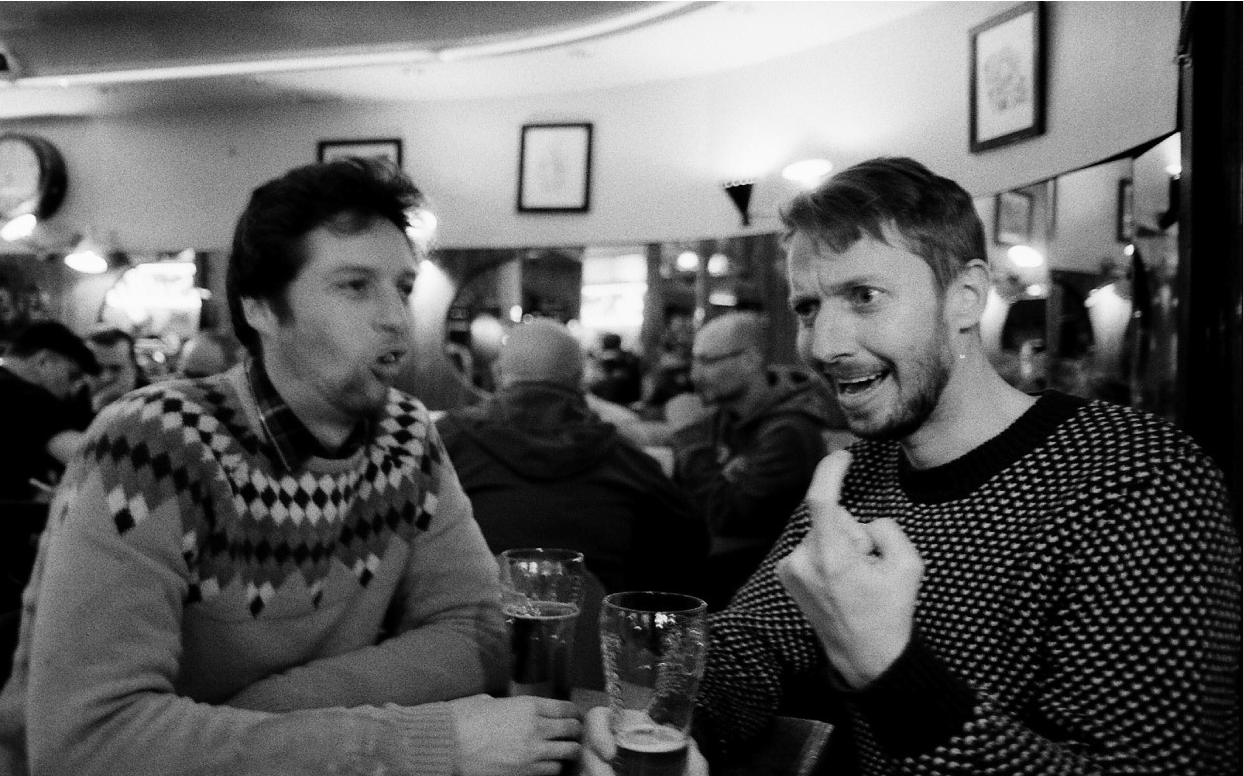
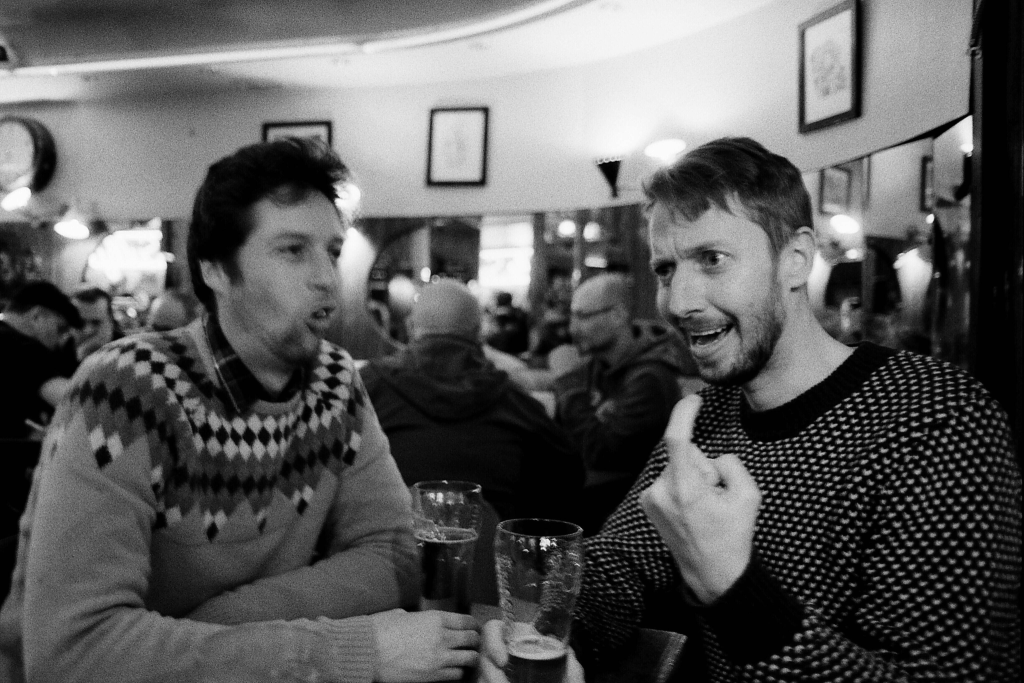
+ Added coming soon sections Merch and Photos + Added picture changing to linkies u Changed pictures as requested - Took away 'stay tuned...' message

diff --git a/index.html b/index.html
@@ -18,6 +18,12 @@
             <a href='episodes.html'>
                 <span class='nav-menu-text'>Episodes</span>
             </a>
+            <a href='#'>
+                <span class='nav-menu-text coming-soon'>Merch</span>
+            </a>
+            <a href='#'>
+                <span class='nav-menu-text coming-soon'>Photos</span>
+            </a>
         </div>
         <div class="nav-col nav-col-mid">
             <div class='main-logo-text'>Rich Chocolat<span class='crossed-out'><img src='images/red_thingy_transparent.png'></img>e</span>y Goodness</div>
@@ -51,19 +57,26 @@
     </div>
     <div class='main'>
         <div class="marquee">
-            
             <div class="main-pic">
-                
-                <img id='main-img' onmouseover="changeImg(this)"" onmouseout="returnImg(this)" src="images/rcg_pic.jpg" alt="RCG Main Photo" >
-                <img id='main-img' onmouseover="changeImg(this)"" onmouseout="returnImg(this)" src="images/rcg_hover.png" alt="RCG Main Photo" hidden>
-                <img id='main-img' onmouseover="changeImg(this)"" onmouseout="returnImg(this)" src="images/rcg_hover_alt.jpg" alt="RCG Main Photo" hidden>
+                <img id='main-img' onmouseover="changeImg(this)"" onmouseout="returnImg(this)" src="images/rcg_pic.png" alt="RCG Main Photo" >
+                <!-- <img id='main-img' onmouseover="changeImg(this)"" onmouseout="returnImg(this)" src="images/rcg_hover.png" alt="RCG Main Photo" hidden>
+                <img id='main-img' onmouseover="changeImg(this)"" onmouseout="returnImg(this)" src="images/rcg_hover_alt.jpg" alt="RCG Main Photo" hidden> -->
             </div>
         </div>
-        <p class='main-paragraph'>In 2014 <span class='linky'>I</span> was living in Los Angeles.  I had just dropped out of a <span class='linky'>Ph.D.</span> program and was on my way to <span class='linky'>South Korea</span> to work as an English <span class='linky'>teacher</span>. Then, I met a <span class='linky'>French</span> teacher. We fell in <span class='linky'>love</span>, I dropped everything, and six months later I followed her to <span class='linky'>Paris</span> with nothing but <span class='linky'>two</span> suitcases.</p>
-        <p class='main-paragraph'>As exciting as this <span class='linky'>new</span> life was, looking for work and struggling with everyday life in a <span class='linky'>language</span> I didn't speak started to chip away at my <span class='linky'>confidence</span>. I could see that people back home had been <span class='linky'>steadily</span> building towards something: finishing Ph.D's and working <span class='linky'>stable</span> jobs, successfully making the transition to adult life while I had the impression of <span class='linky'>continually</span> starting over.</p>
-        <p class='main-paragraph'>This became the <span class='linky'>perfect</span> excuse to call my friends and catch up. <span class='linky'>Beautiful</span> people with big dreams whom I've met at different <span class='linky'>stages</span> of life and who are now researchers, artists, teachers, scientists, parents. It turns out they <span class='linky'>too</span> are trying to figure life out.
-        <p class='main-paragraph'>Stay tuned for <span class='linky'>new</span> episodes every two weeks. </p>
-
+        <p class='main-paragraph'>In 2014 <span class='linky'>I</span> was living in Los Angeles.  I had just dropped out of a <span class='linky'>Ph.D.</span> 
+            program and was on my way to <span data-type="hover-pic-main" data-photo="./images/seoul.jpg" class='linky'>South Korea</span> to work as an English <span class='linky'>teacher</span>. Then, I met a 
+            <span class='linky'>French</span> teacher. We fell in <span data-type="hover-pic-hover" data-photo="./images/love.png" class='linky'>love</span>, I dropped everything, and six months later I followed her to 
+            <span data-type="hover-pic-main" data-photo="./images/paris.jpg" class='linky'>Paris</span> with nothing but <span class='linky'>two</span> suitcases.
+        </p>
+        <p class='main-paragraph'>As exciting as this <span class='linky'>new</span> life was, looking for work and struggling with everyday life in a 
+            <span class='linky'>language</span> I didn't speak started to chip away at my <span class='linky'>confidence</span>. I could see that people back home had been 
+            <span class='linky'>steadily</span> building towards something: finishing Ph.D's and working <span class='linky'>stable</span> jobs, successfully making the 
+            transition to adult life while I had the impression of <span class='linky'>continually</span> starting over.
+        </p>
+        <p class='main-paragraph'>This became the <span class='linky'>perfect</span> excuse to call my friends and catch up. <span class='linky'>Beautiful</span> 
+            people with big dreams whom I've met at different <span class='linky'>stages</span> of life and who are now researchers, artists, teachers, scientists, parents. 
+            It turns out they <span class='linky'>too</span> are trying to figure life out.
+        </p>
         <!-- <p class='linky'>test</p> -->
     </div>
 

diff --git a/js/script.js b/js/script.js
@@ -1,9 +1,42 @@
 function changeImg(x){
     let r = Math.floor(Math.random() * 2);
-    console.log(r);
-    x.src = r === 0 ? "images/rcg_hover.png" : "images/rcg_hover_alt.jpg";
+    x.src = r === 0 ? "images/rcg_hover.png" : "images/rcg_hover_alt.png";
 }
 
 function returnImg(x){
-    x.src = "images/rcg_pic.jpg";
+    x.src = "images/rcg_pic.png";
+}
+
+const linkies = document.getElementsByClassName('linky');
+
+for(link of linkies){
+    if(link.getAttribute('data-type') === 'hover-pic-main'){
+        const picDiv = document.getElementById('main-img');
+        link.addEventListener("mouseenter", function(e){
+            const photo = e.target.getAttribute('data-photo');
+            picDiv.src = photo;
+        });
+        link.addEventListener("mouseleave", e => picDiv.src = "images/rcg_pic.png");
+    }
+    // else if (link.getAttribute('data-type') === 'hover-pic-hover'){
+    //     link.addEventListener("mouseenter", e => {
+    //         // const photo = span.getAttribute('data-photo');
+    //         const photo = e.target.getAttribute('data-photo');
+
+    //         console.log(e);
+
+    //         const floatImg = document.createElement('img');
+    //         floatImg.setAttribute('src', photo);
+    //         floatImg.className = "floaty-pic";
+    //         floatImg.style.setProperty('position','fixed');
+    //         floatImg.style.setProperty('top', `${e.offsetY}px`);
+    //         floatImg.style.setProperty('left', `${e.x}px`);
+    //         document.getElementsByClassName('main')[0].appendChild(floatImg);
+    //     });
+    //     link.addEventListener("mouseleave", e => {
+    //         for (floatyPic of document.getElementsByClassName('floaty-pic')){
+    //             floatyPic.parentNode.removeChild(floatyPic);
+    //         }
+    //     })
+    // }
 }

diff --git a/css/style.scss b/css/style.scss
@@ -1,5 +1,6 @@
 $background-color: #1a1a1a;
 $font-color: #fefefe;
+$coming-soon-color: #8e8e8e;
 $red-color: red;
 
 body{
@@ -80,10 +81,26 @@ a{
 
     .nav-menu-text{
         font-size: 1.5em;
-        margin: auto 0;
+        margin: auto 10px;
         text-transform: uppercase;
     }
+
+    .coming-soon{
+        
+    }
     
+    .coming-soon:active{
+        color: $coming-soon-color;
+    }
+
+    .coming-soon:active::before{
+        transition: all 2s;
+        content:'coming soon!';
+        position: absolute;
+        top: 20px;
+        margin-left: -50px; 
+        color: white;
+    }
 }
 
 .main{
@@ -147,13 +164,13 @@ a{
 .footer{
     margin: 0 12%;
     .pedro-pointer{
-        border-bottom: 3px solid red;
+        border-bottom: 3px solid $red-color;
     }
     .pedro-pointer:hover{
         cursor: url('../images/pedro_pointer.png'),auto;
     }
     .ben-pointer{
-        border-bottom: 3px solid red;
+        border-bottom: 3px solid $red-color;
     }
     .ben-pointer:hover{
         cursor: url('../images/ben_bw_pointer.png'),auto;

diff --git a/episodes.html b/episodes.html
@@ -17,6 +17,12 @@
             <a href='index.html'>
                 <span class='nav-menu-text'>Home</span>
             </a>
+            <a href='#'>
+                <span class='nav-menu-text coming-soon'>Merch</span>
+            </a>
+            <a href='#'>
+                <span class='nav-menu-text coming-soon'>Photos</span>
+            </a>
         </div>
         <div class="nav-col nav-col-mid">
             <div class='main-logo-text'>Rich Chocolat<span class='crossed-out'><img src='images/red_thingy_transparent.png'></img>e</span>y Goodness</div>

diff --git a/css/style.css b/css/style.css
@@ -90,8 +90,22 @@ a {
 
 .nav .nav-menu-text {
   font-size: 1.5em;
-  margin: auto 0;
+  margin: auto 10px;
   text-transform: uppercase;
+}
+
+.nav .coming-soon:active {
+  color: #8e8e8e;
+}
+
+.nav .coming-soon:active::before {
+  -webkit-transition: all 2s;
+  transition: all 2s;
+  content: 'coming soon!';
+  position: absolute;
+  top: 20px;
+  margin-left: -50px;
+  color: white;
 }
 
 .main {
